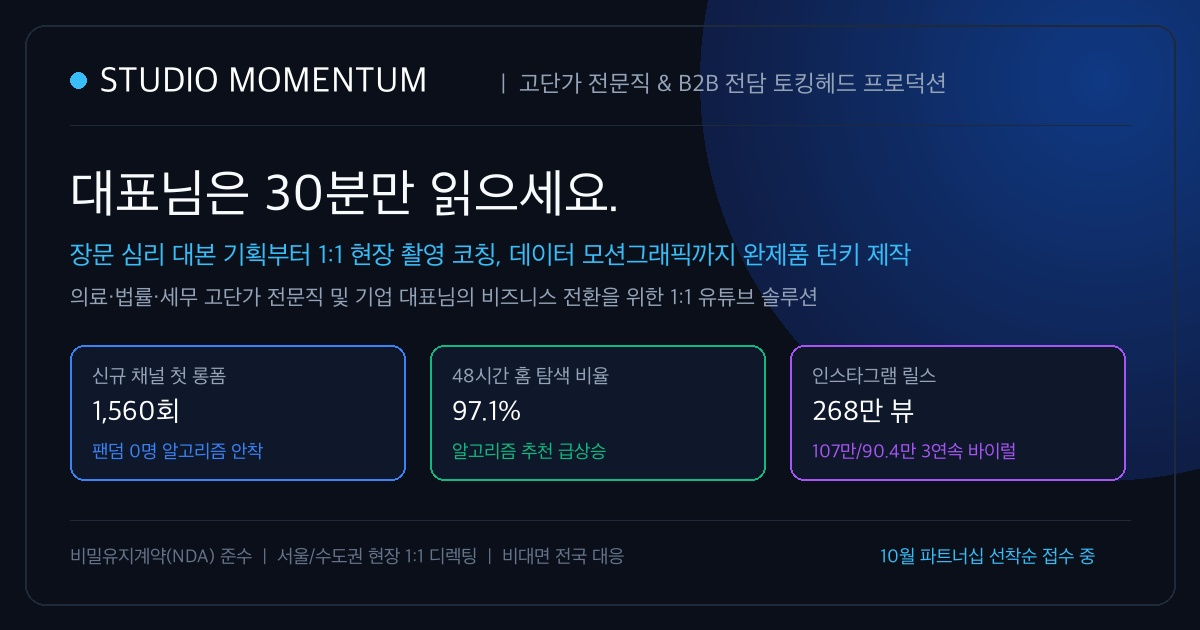
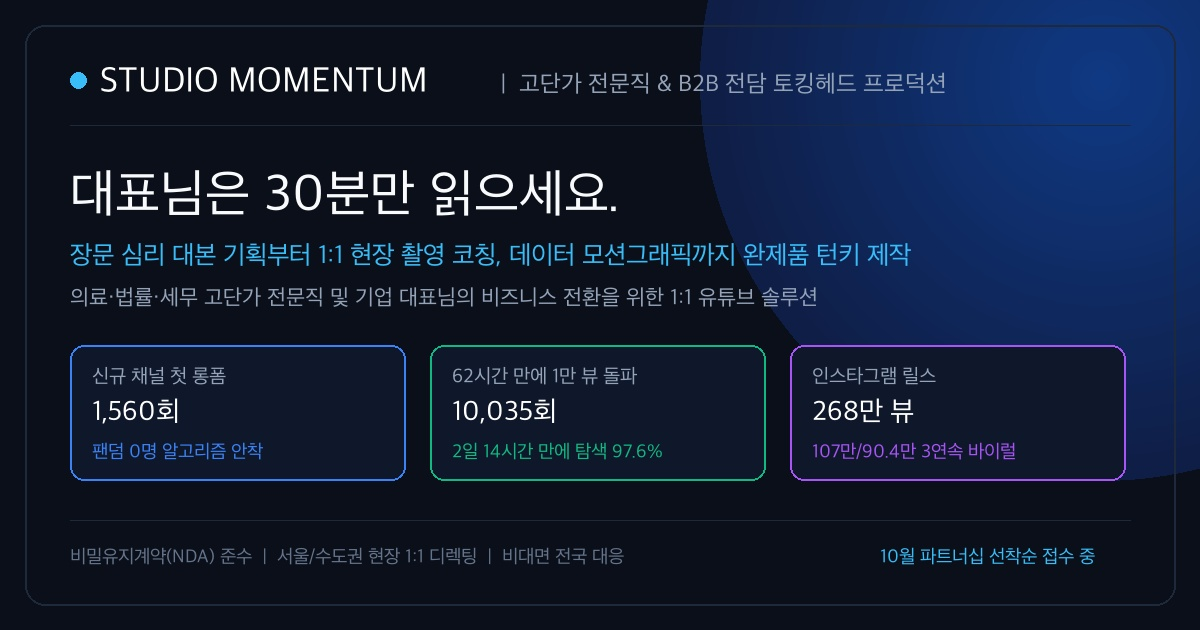
Update Proof 2 to 62h (2 days 14 hours) 10,035 views milestone

Changed region(s): [[0.37, 0.573, 0.5242, 0.6635], [0.37, 0.6937, 0.555, 0.754]]

diff --git a/index.html b/index.html
@@ -13,7 +13,7 @@
   <meta property="og:type" content="website">
   <meta property="og:url" content="https://cocked-pisto.github.io/">
   <meta property="og:title" content="STUDIO MOMENTUM | 고단가 전문직·B2B 올인원 토킹헤드 프로덕션">
-  <meta property="og:description" content="대표님은 30분만 읽으세요. 장문 심리 대본 기획부터 1:1 촬영 코칭, 모션그래픽 턴키 제작. (신규 채널 첫 롱폼 1,560회 / 인스타 268만 뷰)">
+  <meta property="og:description" content="대표님은 30분만 읽으세요. 장문 심리 대본 기획부터 1:1 촬영 코칭, 모션그래픽 턴키 제작. (62시간 만에 1만 뷰 돌파 / 인스타 268만 뷰)">
   <meta property="og:image" content="https://cocked-pisto.github.io/og_preview.jpg">
   <meta property="og:image:width" content="1200">
   <meta property="og:image:height" content="630">
@@ -22,7 +22,7 @@
   <meta name="twitter:card" content="summary_large_image">
   <meta name="twitter:url" content="https://cocked-pisto.github.io/">
   <meta name="twitter:title" content="STUDIO MOMENTUM | 고단가 전문직·B2B 올인원 토킹헤드 프로덕션">
-  <meta name="twitter:description" content="대표님은 30분만 읽으세요. 장문 심리 대본 기획부터 1:1 촬영 코칭, 모션그래픽 턴키 제작.">
+  <meta name="twitter:description" content="대표님은 30분만 읽으세요. 장문 심리 대본 기획부터 1:1 촬영 코칭, 모션그래픽 턴키 제작. (62시간 만에 1만 뷰 돌파)">
   <meta name="twitter:image" content="https://cocked-pisto.github.io/og_preview.jpg">
 
   <meta http-equiv="Cache-Control" content="no-cache, no-store, must-revalidate">
@@ -839,8 +839,8 @@
         <div class="metric-label">신규 채널 런칭 첫 롱폼 (기존 팬덤 0명 안착)</div>
       </div>
       <div class="metric-card">
-        <div class="metric-num">97.1%</div>
-        <div class="metric-label">전문가 롱폼 48시간 홈 피드 탐색 비율 (7.8천회)</div>
+        <div class="metric-num">10,035회</div>
+        <div class="metric-label">게시 62시간(2일 14시간) 만에 1만 뷰 돌파 (홈 탐색 97.6%)</div>
       </div>
       <div class="metric-card">
         <div class="metric-num">268만+</div>
@@ -872,17 +872,17 @@
         </div>
       </div>
 
-      <!-- Proof 2: YouTube 7,800 views / 97.1% Browse Scale-up -->
+      <!-- Proof 2: YouTube 10,035 views (62 hours / 2 days 14 hours) Browse 97.6% -->
       <div class="proof-card-horizontal">
         <div class="proof-img-wrap">
-          <img src="proof_youtube_7800.jpg?v=5" alt="유튜브 알고리즘 탐색 97.1% 달성 분석 화면" loading="lazy" draggable="false" oncontextmenu="return false;">
+          <img src="proof_youtube_10000.jpg?v=1" alt="유튜브 게시 62시간(2일 14시간) 만에 1만회 돌파 스튜디오 분석 화면" loading="lazy" draggable="false" oncontextmenu="return false;">
         </div>
         <div class="proof-content">
           <span class="proof-tag blue">02. 롱폼 알고리즘 스케일업</span>
-          <h4>게시 48시간 7,800회 & 탐색 노출 97.1%</h4>
-          <p>고관여 기술 전문가 토킹헤드 콘텐츠에 3단계 심리 대본 구조를 적용하여 유튜브 메인 홈 화면 추천 비율 97.1%를 점유하며 급상승 달성.</p>
+          <h4>게시 62시간(2일 14시간) 만에 조회수 1만 회(10,035회) 돌파</h4>
+          <p>고관여 전문직 토킹헤드 콘텐츠에 3단계 심리 대본 구조를 적용하여, 게시 <strong>단 62시간(2일 14시간) 만에 10,035회</strong>를 돌파하고 유튜브 홈 메인 탐색 추천 비율 <strong>97.6%</strong>를 점유한 실제 데이터입니다.</p>
           <div class="proof-highlight-badge">
-            🚀 실시간 48시간 트래픽 7,777회 폭발
+            🚀 62시간 만에 1만 뷰 달성 · 실시간 48h 트래픽 9,612회 폭발
           </div>
         </div>
       </div>
